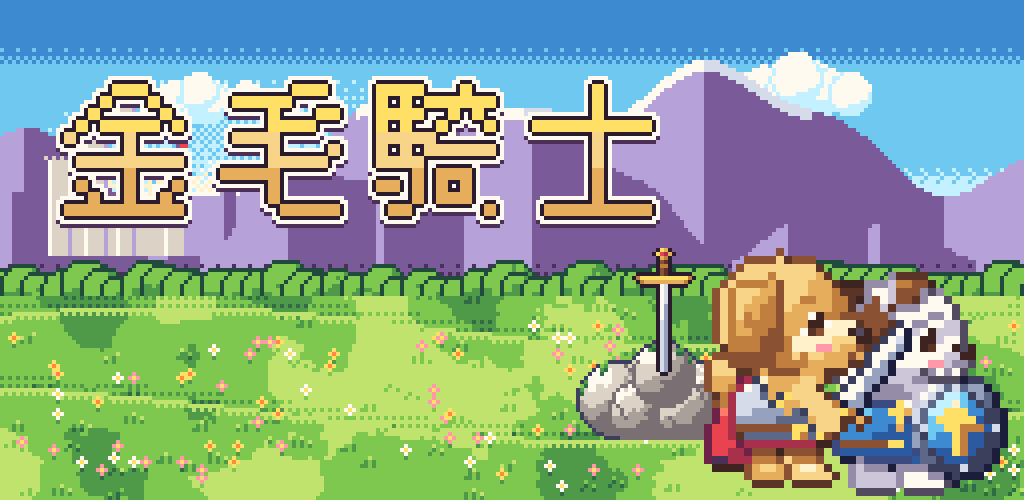
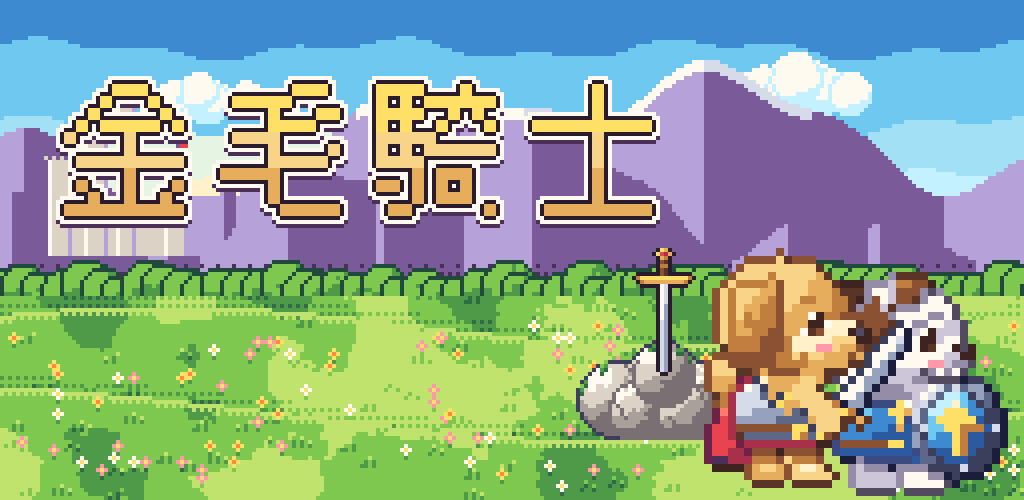
[C] v2.5: dither-free title sky, glossy HUD bars, spread title cast, status report
Claude-Session: https://claude.ai/code/session_011zCFYQCUMyXvVY6m2szGHz

diff --git a/tools/pixel/art_brand.py b/tools/pixel/art_brand.py
@@ -308,33 +308,27 @@ def landscape(w: int, h: int, horizon: int, seed: int = 0, castle_x: float = 0.3
     rolling meadow hills (opaque). Clouds are animated separately on the title screen."""
     import art_world as aw
     c = Canvas(w, h, rgba("sky"))
-    # sky: deep blue at the top, pale near the horizon, short dithered steps between bands
-    bands = [("water", 0.0), ("sky", 0.22), ("sky_l", 0.62), ("cream", 0.9)]
+    # sky (v2.5): clean hue-shifted bands from deep blue to warm haze; each band edge gently waves
+    # (no dithering), and the sunrise glow is a few soft concentric rings
+    bands = [("water", 0.0), ("sky", 0.16), ("azure", 0.42), ("sky_l", 0.6), ("haze", 0.78), ("cream", 0.92)]
     for y in range(horizon):
-        t = y / max(1, horizon)
         for x in range(w):
+            t = (y + 2.0 * math.sin(x / 13.0 + y * 0.05) + 1.2 * math.sin(x / 5.0)) / max(1, horizon)
             col = bands[0][0]
-            for i in range(len(bands) - 1):
-                n0, t0 = bands[i]
-                n1, t1 = bands[i + 1]
-                if t >= t1:
-                    col = n1
-                elif t >= t0:
-                    edge = (t - (t1 - 0.06)) / 0.06
-                    col = n1 if edge > 0 and aw.bayer(x, y) < edge else n0
-                    break
+            for n, t0 in bands:
+                if t >= t0:
+                    col = n
             c.set(x, y, col)
-    # sunrise glow
     sx, sy = w * sun_x, horizon - 6
+    rings = [(16, "white"), (26, "cream"), (40, "haze")]
     for y in range(max(0, int(sy - 60)), horizon):
         for x in range(w):
-            d = math.hypot((x - sx) / 1.6, y - sy)
-            if d < 18:
-                c.set(x, y, "white")
-            elif d < 30 and aw.bayer(x, y) < (30 - d) / 12:
-                c.set(x, y, "white")
-            elif d < 52 and aw.bayer(x, y) < (52 - d) / 30 and aw.name_at(c, x, y) in ("sky_l", "sky"):
-                c.set(x, y, "cream" if aw.name_at(c, x, y) == "sky_l" else "sky_l")
+            d = math.hypot((x - sx) / 1.6, y - sy) + math.sin(x / 4.0 + y / 3.0) * 0.8
+            for r, col in rings:
+                if d < r:
+                    if col != "haze" or aw.name_at(c, x, y) in ("sky_l", "azure", "haze"):
+                        c.set(x, y, col)
+                    break
     if clouds:
         for (fx, fy, r) in ((0.15, 0.25, 7), (0.72, 0.18, 9), (0.5, 0.45, 6)):
             cl = cloud(int(r * 4), int(r * 1.8), seed + int(fx * 10))
@@ -433,7 +427,7 @@ def title_background(sword_stone: Canvas, tree: Canvas, bush: Canvas) -> Canvas:
     for x in range(150, 304):
         top = int(272 - 16 * math.exp(-((x - 214) / 34.0) ** 2))
         for y in range(top, 300):
-            c.set(x, y, "leaf_l" if y < top + 2 else ("leaf" if aw.bayer(x, y) > 0.2 else "leaf_l"))
+            c.set(x, y, "leaf_l" if y < top + 2 else ("spring" if y < top + 5 else "leaf"))
         c.set(x, top - 1, "leaf_d")
     stone = aw.sword_in_stone()
     aw.soft_light(c, 214, 262, 40, 14, +1, 0.5)

diff --git a/docs/status/LINE_C.md b/docs/status/LINE_C.md
@@ -1,8 +1,40 @@
 # C 線(像素美術、介面與音效)狀態報告
 
-最後更新:2026-11-17(v2.4 玩法深度 CV1 至 CV7 全部完成)
+最後更新:2026-11-17(v2.5 美術全面重畫 CR1 至 CR6 完成)
 
 ## 已完成
+
+### 本輪(v2.5 美術全面重畫,DEV_PLAN 第 18 節)
+
+怎樣看:
+
+- 整個遊戲:`godot --path .`;圖庫:`godot --path . res://tests/line_c/gallery.tscn`(每個角色每個動畫、特效、背景)。
+- 重畫前後比較圖:`/tmp/line_c_shots/v25/compare.png`(左邊重畫前、右邊重畫後)。全部截圖:`/tmp/line_c_shots/v25/before_bot`、`after_bot`(從標題玩到黑騎士)、`before_gallery`、`after_gallery`(圖庫每一頁)。
+- 新的截圖工具:`xvfb-run -a godot --path . --rendering-driver opengl3 res://tests/line_c/gallery_shots.tscn -- --out=資料夾`(把圖庫每頁存成 3 倍大的 PNG)。
+
+各項任務:
+
+- CR1 全部角色重畫:完成。新的「人偶」繪圖工具 `tools/pixel/rig.py`:每個身體部位用形狀畫出,自動做左上光源的 3 至 4 層明暗(色階有色相偏移:暗部偏紅紫、亮部偏黃)、毛髮的 2 格一簇質感、盔甲的小反光、布料皺摺;前後部位之間自動畫上同色系的深色分隔線;外框是彩色的(毛是深咖啡、鋼是深藍、披風是深酒紅,亮的那一邊外框淺一階),不是全黑;單一個雜點會自動清掉;眼睛、鼻子、反光是手點的。
+  - 金毛 32×32(大頭、垂耳、大眼睛、奶油色口鼻、鋼胸甲與金色徽記、會飄的紅披風、長劍;跑步時披風往後飛、吐舌頭;揮劍有弧光;睡覺時蓋著披風)。
+  - 貝德維爾 32×32(白毛咖啡斑、地包天兩顆小牙、藍色外衣、藍盾金十字)。
+  - 稻草人 32×32、弓兵 32×32(改成酒紅外衣,在草地上更清楚)、稻草人隊長 48×48(兩角帽、紫羽毛、紅領、金釦、乾草叉)、烏鴉 24×24、空盔甲兵 32×32、梅林 32×32、黑騎士 64×64(大頭盔、紫光面罩、肩甲、破破的紫披風、紫色劍槽的大劍)。
+  - 動畫名稱、格數、速度、是否循環都和以前一樣(程式直接從舊的產生器讀),A 線的時間不會變。腳底一樣在格子最下面一兩列(陰影位置自動跟著格子大小)。
+- CR2 背景:完成(重點改)。草地、麥田、農場、森林的地面改成大片柔和的色塊,邊緣成簇,不再有滿地的格狀抖色雜點;草叢改成手畫形狀的小草;戰鬥區用更接近的三個綠色,安靜好讀;小路邊緣、石子、戰鬥區邊緣的陰影都不再用棋盤格;石橋的石板去掉雜點,只留磨損的小塊。遠景、光柱、前景層、氣氛色沿用 v2.3。
+- CR3 介面:完成。全部按鈕、框、卡片、緞帶用同一套新畫法:外框跟著面板的顏色(金色按鈕是深咖啡框、藍色是深藍框),內框左上亮、右下暗,左邊一條亮邊、下面兩格「厚度」,左上角一個小反光。九宮格邊界不變,文字位置不變。HUD 的數值條加了左上小反光、填色前端的亮邊和空槽的內陰影。
+- CR4 標題與 App 圖示:完成。App 圖示是重新畫的金毛頭像(64×64 畫給大圖示、32×32 另外畫一張給小圖示,不是縮小的),大眼睛、垂耳、吐舌頭、紅披風和肩甲;Android 前景、單色版、商店圖、啟動畫面都更新。標題畫面的金毛、貝德維爾、梅林改成 2 倍大(新圖本身就比較細),位置重新排過。
+- CR5 特效:完成。揮劍弧光(32)變粗、有深藍邊、淡出時變細而不是抖色;擊中火花 16→20(兩格寬的光芒加橘邊);塵土 8→12(有明暗的小雲);暈眩星星 16×10→20×12;必殺技去掉抖色。
+- CR6 測試與截圖:完成。調色盤 40→55 色(加的 15 色見 `tools/pixel/palette.py`;舊的 40 色一個都沒改,`PaletteColors` 舊常數不變);`tests/line_c` 的格子大小與色數已更新。`tools/run_tests.sh` 全部通過。
+
+### 本輪做的決定(擁有人授權我決定)
+
+- 用程式「人偶」重畫,而不是逐格手寫字元圖:180 多格要一致,改一個部位所有格一起變;以後要再調整也快。
+- 調色盤加 15 色而不是換掉:舊介面程式用到的顏色完全不動。
+- 動畫格數維持不變(合約允許增加,但維持不變最安全,A 線的命中時間完全不受影響)。
+- 揮劍弧光維持 32×32:A 線把它放在金毛前面 10 像素,放大會讓看起來的攻擊範圍比實際大。
+- 頭像(48×48)和繪本插畫(160×120)本輪沒有重畫(v2.3 已經是細畫,尺寸也不變);只有因為調色盤擴充,`ending_3` 的光暈換算有一點點不同。
+- 弓兵外衣從紫色改成酒紅色,和一般稻草人分得開;原本試過綠色,但在草地上看不見,所以不用。
+
+### 上一輪(v2.4)
 
 怎樣試玩(在專案資料夾執行):
 
@@ -104,11 +136,13 @@
 
 ## 下一步
 
-- 等 B 線接上 v2.4 流程後,在整個遊戲裡看一次進化、抉擇事件、復活與無盡試煉,微調演出時間與 HUD 位置。
+- v2.5 之後:如果擁有人覺得某個角色還不夠好,用 `tools/pixel/art_v25_*.py` 改那個角色的形狀或顏色,重跑 `python3 tools/pixel/build_all.py --no-music` 就好。
+- 頭像與繪本插畫可以照同一套光源與彩色外框再修一輪。
 
 ## 需要擁有人決定的事
 
-- 沒有必須決定的事。如果覺得某個新圖示看不懂(例如「嗅嗅」的鼻子、「裝死」的小狗),直接說是哪一個,我用同一套工具很快就能改。
+- 看 `/tmp/line_c_shots/v25/compare.png` 或直接玩一次,告訴我哪個角色或畫面還不喜歡。
+- 沒有其他必須決定的事。如果覺得某個新圖示看不懂(例如「嗅嗅」的鼻子、「裝死」的小狗),直接說是哪一個,我用同一套工具很快就能改。
 
 ## 建議
 
